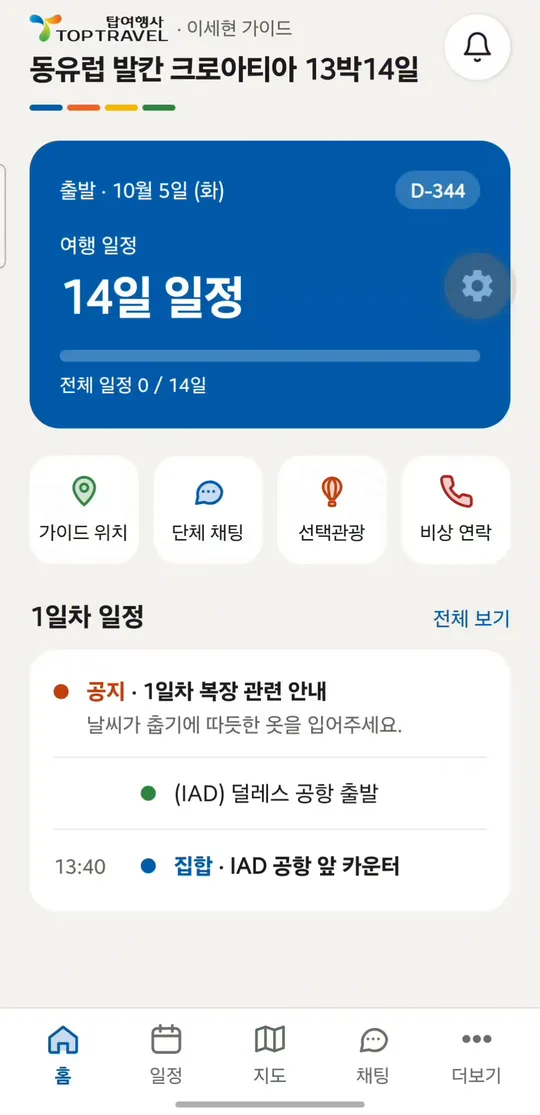
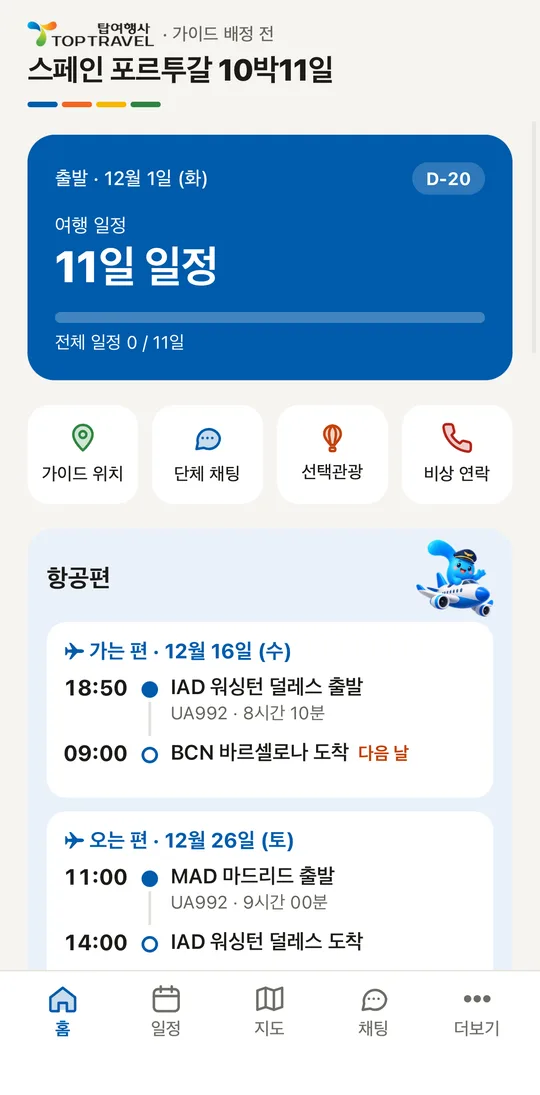
Add travel campaign gallery and new TopTrip home screens
- Travel card now shows newspaper ads, social posts, itinerary sheets and maps, with a full-size image viewer
- Replace TopTrip home with the new pre-trip iOS screenshot
- Show before/after home states in key decision 1

Claude-Session: https://claude.ai/code/session_01EtcT4xJbzwUof1XuHs9Pwb

diff --git a/homepage.html b/homepage.html
@@ -190,6 +190,32 @@ footer{padding-block:28px 40px; border-top:1px solid var(--line); color:var(--mu
 .steps li{background:var(--bg); border:1px solid var(--line); border-radius:8px; padding:4px 10px; font-size:.875rem; font-weight:600}
 .steps li + li::before{content:"›"; color:var(--muted); margin-right:8px; margin-left:-2px}
 .join{font-size:.875rem; color:var(--muted)}
+.states{display:grid; grid-template-columns:1fr 1.35fr 1fr; gap:clamp(10px,2.4vw,24px); align-items:start; background:var(--tint); border-radius:12px; padding:clamp(12px,2.4vw,22px)}
+.states figure{margin:0; display:grid; gap:8px; justify-items:center}
+.states .shot{width:min(100%,190px); border-width:5px; border-radius:18px}
+.states .card-shot{width:100%; height:auto; border-radius:12px; border:1px solid var(--line); background:var(--card)}
+.states figcaption{font-size:.8rem; font-weight:700; text-align:center}
+.states figcaption span{display:block; font-weight:500; color:var(--muted)}
+.slot-during{width:100%; margin-top:14px; padding:22px 12px; border:1.5px dashed var(--slot); border-radius:12px; text-align:center; font-size:.85rem; background:var(--card)}
+@media (max-width:640px){.states{grid-template-columns:1fr 1fr}.states .prep{grid-column:1/-1; grid-row:2}}
+.card--wide{grid-column:1/-1}
+.tc{display:grid; gap:18px}
+.tc-line{display:grid; grid-template-columns:2fr 3fr; gap:20px; align-items:start}
+.tc-line--b{grid-template-columns:4fr 1.6fr}
+.tc-g h4{margin:0 0 8px; font-size:.8rem; font-weight:700; color:var(--muted)}
+.tc-row{display:grid; grid-template-columns:repeat(var(--n),minmax(0,1fr)); gap:10px}
+.tc-stack{display:grid; gap:10px}
+.zoom{display:block; width:100%; padding:0; border:1px solid var(--line); border-radius:var(--r-ctl); background:var(--card); overflow:hidden; cursor:zoom-in; transition:transform 160ms ease, box-shadow 160ms ease}
+.zoom:hover{transform:translateY(-2px); box-shadow:0 6px 18px rgba(32,39,51,.12)}
+.zoom:focus-visible{outline:2px solid var(--accent); outline-offset:2px}
+.zoom img{display:block; width:100%; height:auto}
+.lb{border:0; padding:0; background:transparent; max-width:min(96vw,1100px); max-height:94vh; overflow:visible}
+.lb::backdrop{background:rgba(20,24,31,.86)}
+.lb img{display:block; max-width:min(96vw,1100px); width:auto; height:auto; border-radius:8px; margin:auto; background:#fff}
+.lb-box{max-height:92vh; overflow:auto; overscroll-behavior:contain; border-radius:8px}
+.lb-x{position:fixed; top:12px; right:12px; width:44px; height:44px; border-radius:50%; border:0; background:#fff; color:var(--ink); font-size:1.4rem; line-height:1; cursor:pointer}
+@media (max-width:760px){.tc-line,.tc-line--b{grid-template-columns:1fr}.tc-g[style*="--n:4"] .tc-row{grid-template-columns:1fr 1fr}.tc-stack{grid-template-columns:1fr 1fr; align-items:start}}
+@media (prefers-reduced-motion:reduce){.zoom{transition:none}.zoom:hover{transform:none}}
 .decisions{display:grid; gap:12px; counter-reset:d}
 .decision{background:var(--card); border:1px solid var(--line); border-radius:var(--r-card); padding:18px 20px; display:grid; gap:10px}
 .decision h3{font-size:1.1rem; line-height:1.35}
@@ -275,7 +301,7 @@ footer{padding-block:28px 40px; border-top:1px solid var(--line); color:var(--mu
       </div>
     </div>
     <div class="screens" aria-label="TopTrip app screens">
-      <figure><img class="shot" src="assets/img/tt_home.webp" width="540" height="1115" alt="TopTrip traveler home showing the 14-day trip, quick actions and today’s notices" fetchpriority="high"><figcaption data-i18n="capHome">Traveler home</figcaption></figure>
+      <figure><img class="shot" src="assets/img/tt_home.webp" width="540" height="1115" alt="TopTrip traveler home before departure showing the D-20 countdown, quick actions and flights" fetchpriority="high"><figcaption data-i18n="capHome">Traveler home</figcaption></figure>
       <figure><img class="shot" src="assets/img/tt_map.webp" width="540" height="1115" alt="TopTrip day 9 schedule with route map to Plitvice Lakes"><figcaption data-i18n="capMap">Trip map</figcaption></figure>
       <figure><img class="shot" src="assets/img/tt_meet.webp" width="540" height="1115" alt="Meeting alert in group chat, confirmed by 1 of 1 traveler"><figcaption data-i18n="capAtt">Meeting check-in</figcaption></figure>
     </div>
@@ -318,18 +344,19 @@ footer{padding-block:28px 40px; border-top:1px solid var(--line); color:var(--mu
         </div>
       </article>
 
-      <article class="card">
+      <article class="card card--wide">
         <div class="card__media">
-          <div class="trio">
-            <img src="assets/img/travel_christmas.webp" width="600" height="800" alt="Christmas tour itinerary poster" loading="lazy">
-            <img src="assets/img/travel_caribbean_route.webp" width="797" height="700" alt="Western Caribbean cruise route map" loading="lazy">
-            <img src="assets/img/travel_nile.webp" width="800" height="450" alt="Nile felucca tour thumbnail" loading="lazy">
+          <div class="tc">
+            <div class="tc-line"><div class="tc-g" style="--n:2"><h4 data-i18n="tcAd">Newspaper ads</h4><div class="tc-row"><button type="button" class="zoom" data-full="assets/img/campaign/ad_focus.webp" aria-label="Newspaper ad: Spain & Portugal and Alaska aurora features with tour listings (open full size)"><img src="assets/img/campaign/ad_focus_t.webp" width="400" height="500" alt="Newspaper ad: Spain & Portugal and Alaska aurora features with tour listings" loading="lazy"></button><button type="button" class="zoom" data-full="assets/img/campaign/ad_signature.webp" aria-label="Newspaper ad: 2026–27 signature tours and East Coast Christmas specials (open full size)"><img src="assets/img/campaign/ad_signature_t.webp" width="400" height="500" alt="Newspaper ad: 2026–27 signature tours and East Coast Christmas specials" loading="lazy"></button></div></div>
+            <div class="tc-g" style="--n:3"><h4 data-i18n="tcSn">Social posts</h4><div class="tc-row"><button type="button" class="zoom" data-full="assets/img/campaign/sn_patagonia.webp" aria-label="Social post styled as a phone lock screen for an 11-night Patagonia tour (open full size)"><img src="assets/img/campaign/sn_patagonia_t.webp" width="400" height="500" alt="Social post styled as a phone lock screen for an 11-night Patagonia tour" loading="lazy"></button><button type="button" class="zoom" data-full="assets/img/campaign/sn_italy.webp" aria-label="Social post for an 8-day Christmas Italy tour with companion discount (open full size)"><img src="assets/img/campaign/sn_italy_t.webp" width="400" height="500" alt="Social post for an 8-day Christmas Italy tour with companion discount" loading="lazy"></button><button type="button" class="zoom" data-full="assets/img/campaign/sn_greece.webp" aria-label="Social post for a 13-day Greece & Türkiye tour with special price (open full size)"><img src="assets/img/campaign/sn_greece_t.webp" width="400" height="500" alt="Social post for a 13-day Greece & Türkiye tour with special price" loading="lazy"></button></div></div></div>
+            <div class="tc-line tc-line--b"><div class="tc-g" style="--n:4"><h4 data-i18n="tcIt">Itinerary sheets</h4><div class="tc-row"><button type="button" class="zoom" data-full="assets/img/campaign/it_spec_1d.webp" aria-label="Itinerary sheet: Christmas Spectacular day trip (open full size)"><img src="assets/img/campaign/it_spec_1d_t.webp" width="400" height="500" alt="Itinerary sheet: Christmas Spectacular day trip" loading="lazy"></button><button type="button" class="zoom" data-full="assets/img/campaign/it_spec_2d.webp" aria-label="Itinerary sheet: Christmas Spectacular 2-day trip (open full size)"><img src="assets/img/campaign/it_spec_2d_t.webp" width="400" height="500" alt="Itinerary sheet: Christmas Spectacular 2-day trip" loading="lazy"></button><button type="button" class="zoom" data-full="assets/img/campaign/it_goodbye_ny.webp" aria-label="Itinerary sheet: Goodbye 2026 New York 2-day trip (open full size)"><img src="assets/img/campaign/it_goodbye_ny_t.webp" width="400" height="500" alt="Itinerary sheet: Goodbye 2026 New York 2-day trip" loading="lazy"></button><button type="button" class="zoom" data-full="assets/img/campaign/it_busch.webp" aria-label="Itinerary sheet: Christmas Town at Busch Gardens day trip (open full size)"><img src="assets/img/campaign/it_busch_t.webp" width="400" height="500" alt="Itinerary sheet: Christmas Town at Busch Gardens day trip" loading="lazy"></button></div></div>
+            <div class="tc-g tc-g--maps"><h4 data-i18n="tcMap">Maps &amp; thumbnails</h4><div class="tc-stack"><button type="button" class="zoom" data-full="assets/img/travel_caribbean_route.webp" aria-label="Western Caribbean cruise route map (open full size)"><img src="assets/img/travel_caribbean_route.webp" width="797" height="700" alt="Western Caribbean cruise route map" loading="lazy"></button><button type="button" class="zoom" data-full="assets/img/travel_nile.webp" aria-label="Nile felucca tour thumbnail (open full size)"><img src="assets/img/travel_nile.webp" width="800" height="450" alt="Nile felucca tour thumbnail" loading="lazy"></button></div></div></div>
           </div>
         </div>
         <div class="card__body">
           <p class="meta">Visual Design · Travel</p>
-          <h3 class="card-title">Travel Campaign Designs</h3>
-          <p class="card__text" data-i18n="tcCard">Itinerary posters, route maps and promo images for tour products. Places, dates and routes are checked before release.</p>
+          <h3 class="card-title" data-i18n="tcT">Travel Campaign Designs</h3>
+          <p class="card__text" data-i18n="tcCard">Newspaper ads, itinerary sheets, social posts and route maps for a Korean-American travel agency. Places, dates and prices are checked before release. Select an image to see it full size.</p>
         </div>
       </article>
 
@@ -426,7 +453,12 @@ footer{padding-block:28px 40px; border-top:1px solid var(--line); color:var(--mu
         <section class="chapter" id="c-decisions"><h2 data-i18n="hDec">Key decisions</h2>
           <div class="decisions">
             <div class="decision"><h3 data-i18n="d1">Home changes before, during and after the trip</h3>
-              <dl><div><dt data-i18n="dP">Problem</dt><dd><span class="todo" data-i18n="todo">To write</span></dd></div><div><dt data-i18n="dO">Options</dt><dd><span class="todo" data-i18n="todo">To write</span></dd></div><div><dt data-i18n="dC">Choice</dt><dd><span class="todo" data-i18n="todo">To write</span></dd></div><div><dt data-i18n="dR">Result / next check</dt><dd><span class="todo" data-i18n="todo">To write</span></dd></div></dl></div>
+              <div class="states">
+                <figure><img class="shot" src="assets/img/tt_home.webp" width="540" height="1115" alt="Home before departure: D-20 countdown, 11-day itinerary, quick actions and flights" loading="lazy"><figcaption data-i18n="stBefore">Before the trip<span>D-day, flights</span></figcaption></figure>
+                <figure class="prep"><img class="card-shot" src="assets/img/tt_prep.webp" width="720" height="413" alt="Trip prep card: items to pack, December weather, documents" loading="lazy"><figcaption data-i18n="stPrep">Before the trip<span>Prep list: packing, weather, documents</span></figcaption><div class="slot-during"><span class="todo" data-i18n="stDuring">During-trip home: screenshot to add</span></div></figure>
+                <figure><img class="shot" src="assets/img/tt_done.webp" width="540" height="1115" alt="Home after the trip: 11 days, 28 places visited and a Replay trip button" loading="lazy"><figcaption data-i18n="stAfter">After the trip<span>Summary, replay</span></figcaption></figure>
+              </div>
+              <dl><div><dt data-i18n="dP">Problem</dt><dd><span class="todo" data-i18n="todo">To write</span></dd></div><div><dt data-i18n="dO">Options</dt><dd><span class="todo" data-i18n="todo">To write</span></dd></div><div><dt data-i18n="dC">Choice</dt><dd data-i18n="d1C">Before departure, Home shows the countdown, flights and a prep list. When the trip ends, it switches to a summary of days and places with a Replay button.</dd></div><div><dt data-i18n="dR">Result / next check</dt><dd><span class="todo" data-i18n="todo">To write</span></dd></div></dl></div>
             <div class="decision"><h3 data-i18n="d2">Separate flows for travelers and guides on the same schedule data</h3>
               <dl><div><dt data-i18n="dP">Problem</dt><dd><span class="todo" data-i18n="todo">To write</span></dd></div><div><dt data-i18n="dO">Options</dt><dd><span class="todo" data-i18n="todo">To write</span></dd></div><div><dt data-i18n="dC">Choice</dt><dd><span class="todo" data-i18n="todo">To write</span></dd></div><div><dt data-i18n="dR">Result / next check</dt><dd><span class="todo" data-i18n="todo">To write</span></dd></div></dl></div>
             <div class="decision"><h3 data-i18n="d3">Meeting point and alerts always shown the same way</h3>
@@ -464,6 +496,7 @@ footer{padding-block:28px 40px; border-top:1px solid var(--line); color:var(--mu
   </div></article>
 </div>
 </main>
+<dialog class="lb" id="lb" aria-label="Full size image"><button type="button" class="lb-x" aria-label="Close">×</button><div class="lb-box"><img alt=""></div></dialog>
 
 <footer class="band"><div class="wrap">© 2026 Sehyun Lee</div></footer>
 
@@ -481,7 +514,7 @@ footer{padding-block:28px 40px; border-top:1px solid var(--line); color:var(--mu
     readCase:"사례 연구 보기", f1:"원본 PDF", f2:"편집 화면",
     docCard:"여행 일정 PDF를 편집하고 Excel·PowerPoint로 변환하는 도구입니다. 실제 입력, 편집 화면, 출력물로 보여 드립니다.",
     lmT:"리틀문방구 캠페인", lmRed:"분식 (빨강)", lmY:"치즈 (노랑)", lmB:"젤리 (하늘색)", lmCard:"리틀문방구의 말랑이 제품을 위한 포스터 3종입니다. 빨간 분식 메뉴판, 노란 크런치, 하늘색 젤리 포스터를 한국어·영어로 만들었습니다.",
-    tcCard:"여행 상품 일정표 포스터, 항로 지도, 홍보 이미지입니다. 장소, 날짜, 경로는 공개 전에 검수합니다.",
+    tcT:"여행 캠페인 디자인", tcAd:"신문 광고", tcSn:"SNS 게시물", tcIt:"일정표", tcMap:"지도·썸네일", tcCard:"한인 여행사의 신문 광고, 일정표, SNS 게시물, 항로 지도입니다. 장소, 날짜, 가격은 공개 전에 검수합니다. 이미지를 누르면 크게 볼 수 있어요.",
     gdCard:"게임 개발", gdText:"게임 시스템을 직접 구현한 Unity 프로젝트 3개입니다.", seeGames:"게임 보기",
     gamesH:"게임 개발", gamesP:"게임 시스템을 직접 구현한 Unity 프로젝트입니다.", myRole:"담당 역할", watch:"플레이 영상 보기",
     g1m:"2025 · 2D 플랫포머 슈팅", g1r:"게임 기획서를 쓰고, 궤적선이 있는 탱크 조준, 보스 패턴, 튜토리얼과 해금 시스템을 구현했습니다.",
@@ -501,7 +534,7 @@ footer{padding-block:28px 40px; border-top:1px solid var(--line); color:var(--mu
     uT:"고객", t1:"오늘", t2:"일정", t3:"지도", t4:"공지 / 채팅", t5:"긴급 연락",
     uG:"가이드", g1:"배정된 여행", g2:"명단", g3:"출석", g4:"집합 알림", g5:"채팅",
     uA:"관리자", a1:"여행 설정", a2:"일정 / 옵션", a3:"가이드 배정", a4:"경로 데이터",
-    d1:"여행 전·중·종료 상태에 따라 홈 정보를 바꿈", d2:"같은 일정 데이터를 고객과 가이드가 다른 흐름으로 사용", d3:"집합 장소와 알림을 항상 같은 방식으로 노출",
+    d1:"여행 전·중·종료 상태에 따라 홈 정보를 바꿈", d1C:"출발 전에는 D-day, 항공편, 준비물 목록을 보여주고, 여행이 끝나면 일수·방문지 요약과 '여행 다시보기' 버튼으로 바뀝니다.", stBefore:"여행 전<span>D-day, 항공편</span>", stPrep:"여행 전<span>준비물·날씨·서류</span>", stAfter:"여행 종료<span>요약, 다시보기</span>", stDuring:"여행 중 홈: 캡처 추가 예정", d2:"같은 일정 데이터를 고객과 가이드가 다른 흐름으로 사용", d3:"집합 장소와 알림을 항상 같은 방식으로 노출",
     dP:"문제", dO:"고려한 선택지", dC:"실제 선택", dR:"결과 / 추가 검증",
     demoP:"2026년 10월 26일 실기기 테스트 영상에서 37초를 골랐습니다. 소리와 자동재생은 없습니다.",
     ds1:"여행 카운트다운과 바로가기가 있는 고객 홈", ds2:"일자별 일정과 경로 지도", ds3:"전화·길찾기가 있는 가이드 위치", ds4:"단체 채팅의 집합 알림과 고객 확인", ds5:"비상 연락처",
@@ -526,6 +559,10 @@ footer{padding-block:28px 40px; border-top:1px solid var(--line); color:var(--mu
   var saved="en"; try{ saved=localStorage.getItem("lang")||"en"; }catch(e){}
   setLang(saved);
 
+  var lb=document.getElementById("lb"), lbImg=lb.querySelector("img");
+  document.addEventListener("click",function(e){ var z=e.target.closest(".zoom"); if(!z) return; lbImg.src=z.getAttribute("data-full"); lbImg.alt=z.querySelector("img").alt; if(lb.showModal) lb.showModal(); else window.open(z.getAttribute("data-full")); });
+  lb.addEventListener("click",function(e){ if(e.target===lb||e.target.closest(".lb-x")) lb.close(); });
+  lb.addEventListener("close",function(){ lbImg.removeAttribute("src"); });
   var menu=document.getElementById("menu"), mb=document.getElementById("menuBtn");
   mb.addEventListener("click",function(){ var o=menu.classList.toggle("open"); mb.setAttribute("aria-expanded",o?"true":"false"); mb.setAttribute("aria-label",o?"Close menu":"Open menu"); });
   menu.addEventListener("click",function(e){ if(e.target.tagName==="A"){ menu.classList.remove("open"); mb.setAttribute("aria-expanded","false"); } });
